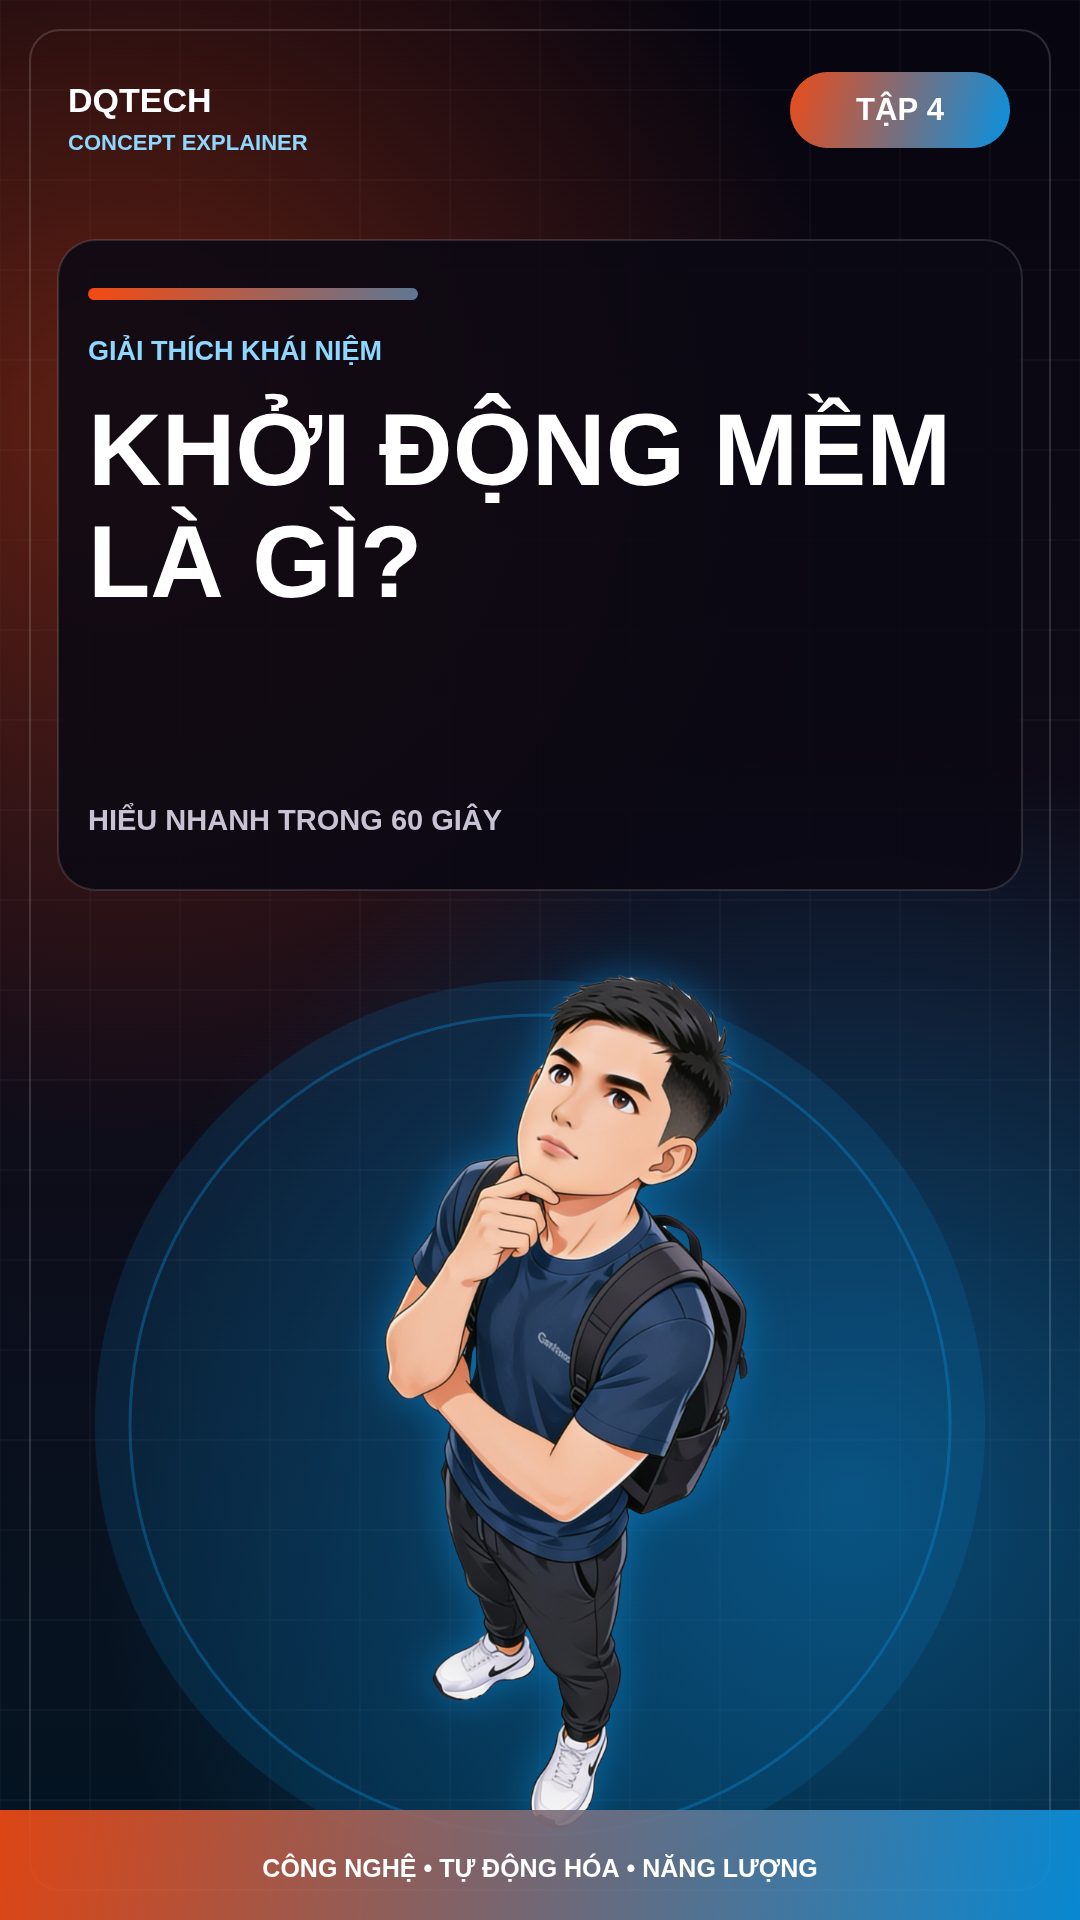
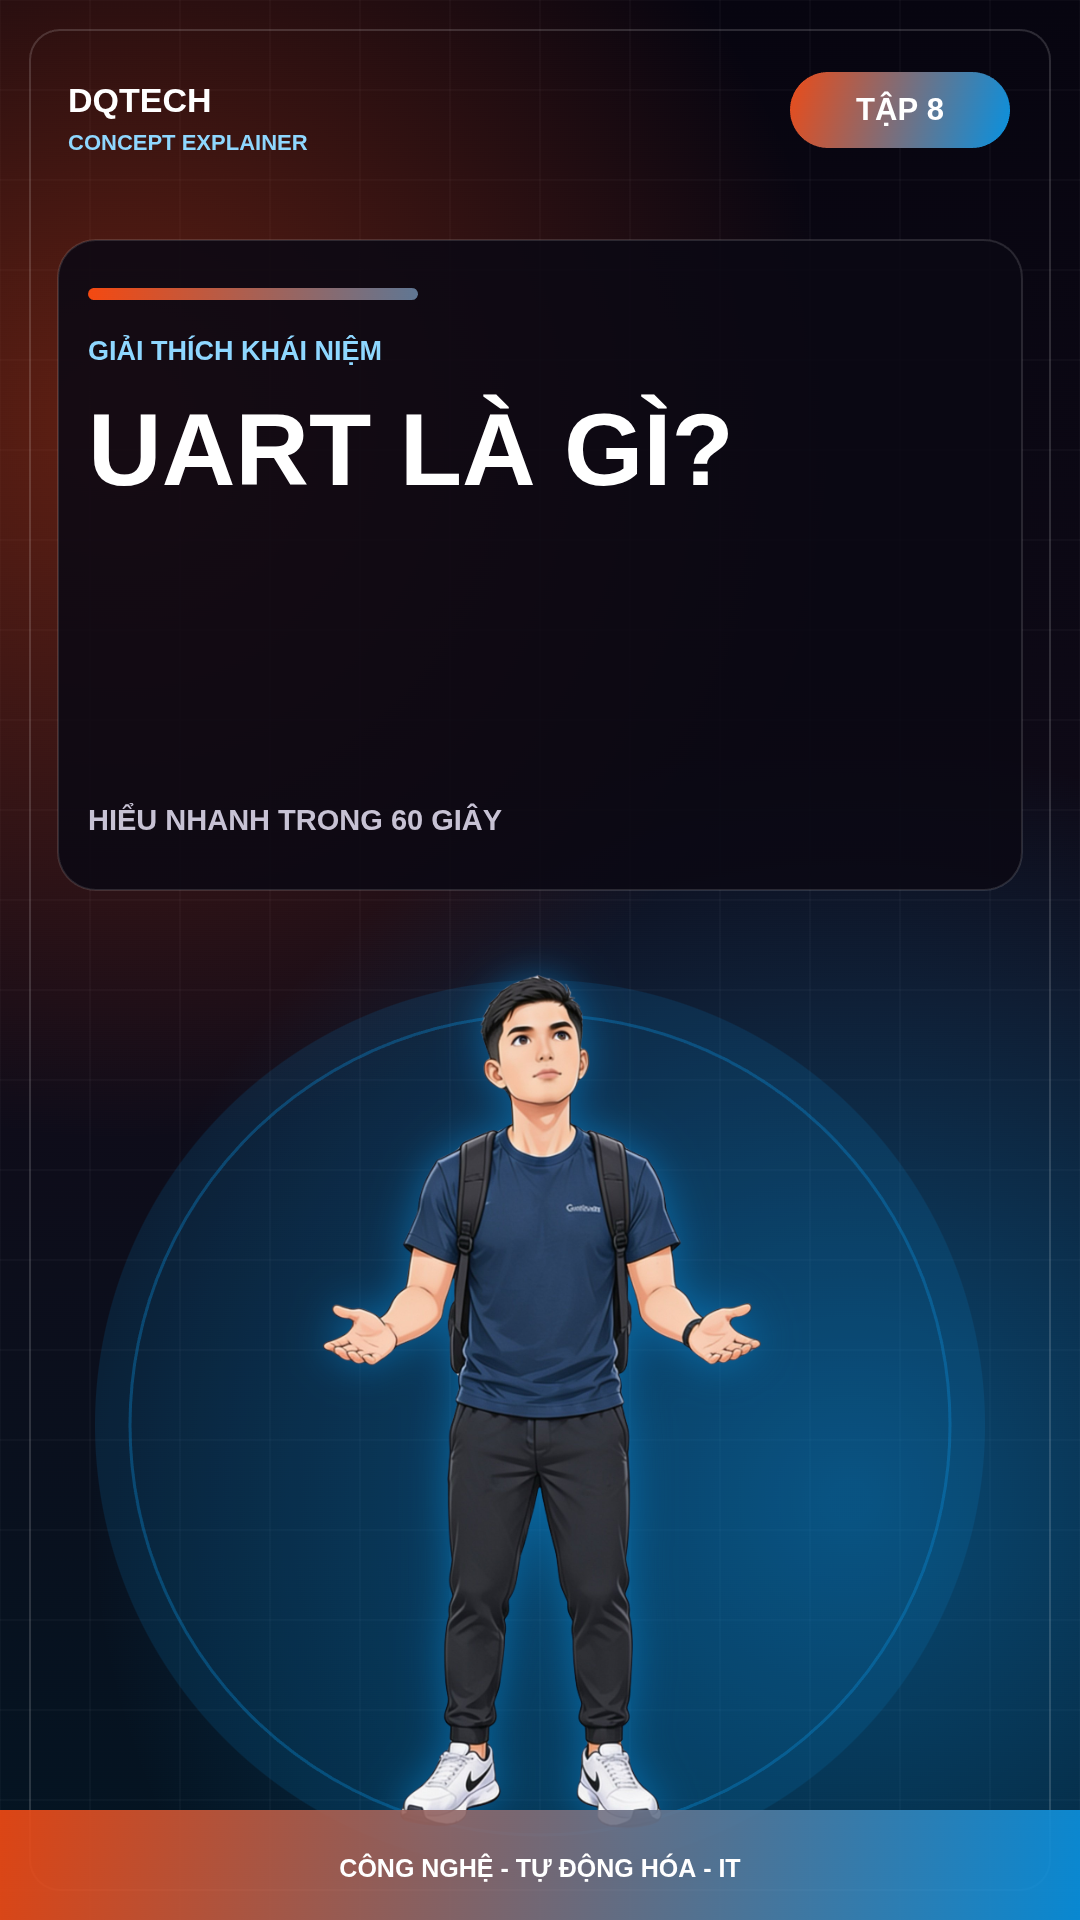
updated

Changed region(s): [[0.2444, 0.5, 0.7639, 1.0], [0.0611, 0.1875, 0.8861, 0.3125], [0.8556, 0.0312, 0.8861, 0.0625]]

diff --git a/app/public/app.js b/app/public/app.js
@@ -201,7 +201,7 @@ const THUMBNAIL_CONCEPT = Object.freeze({
   brand: "DQTECH",
   series: "CONCEPT EXPLAINER",
   durationText: "HIỂU NHANH TRONG 60 GIÂY",
-  footer: "CÔNG NGHỆ • TỰ ĐỘNG HÓA • NĂNG LƯỢNG",
+  footer: "CÔNG NGHỆ - TỰ ĐỘNG HÓA - IT",
   colorA: "#f44911",
   colorB: "#0991df",
 });
